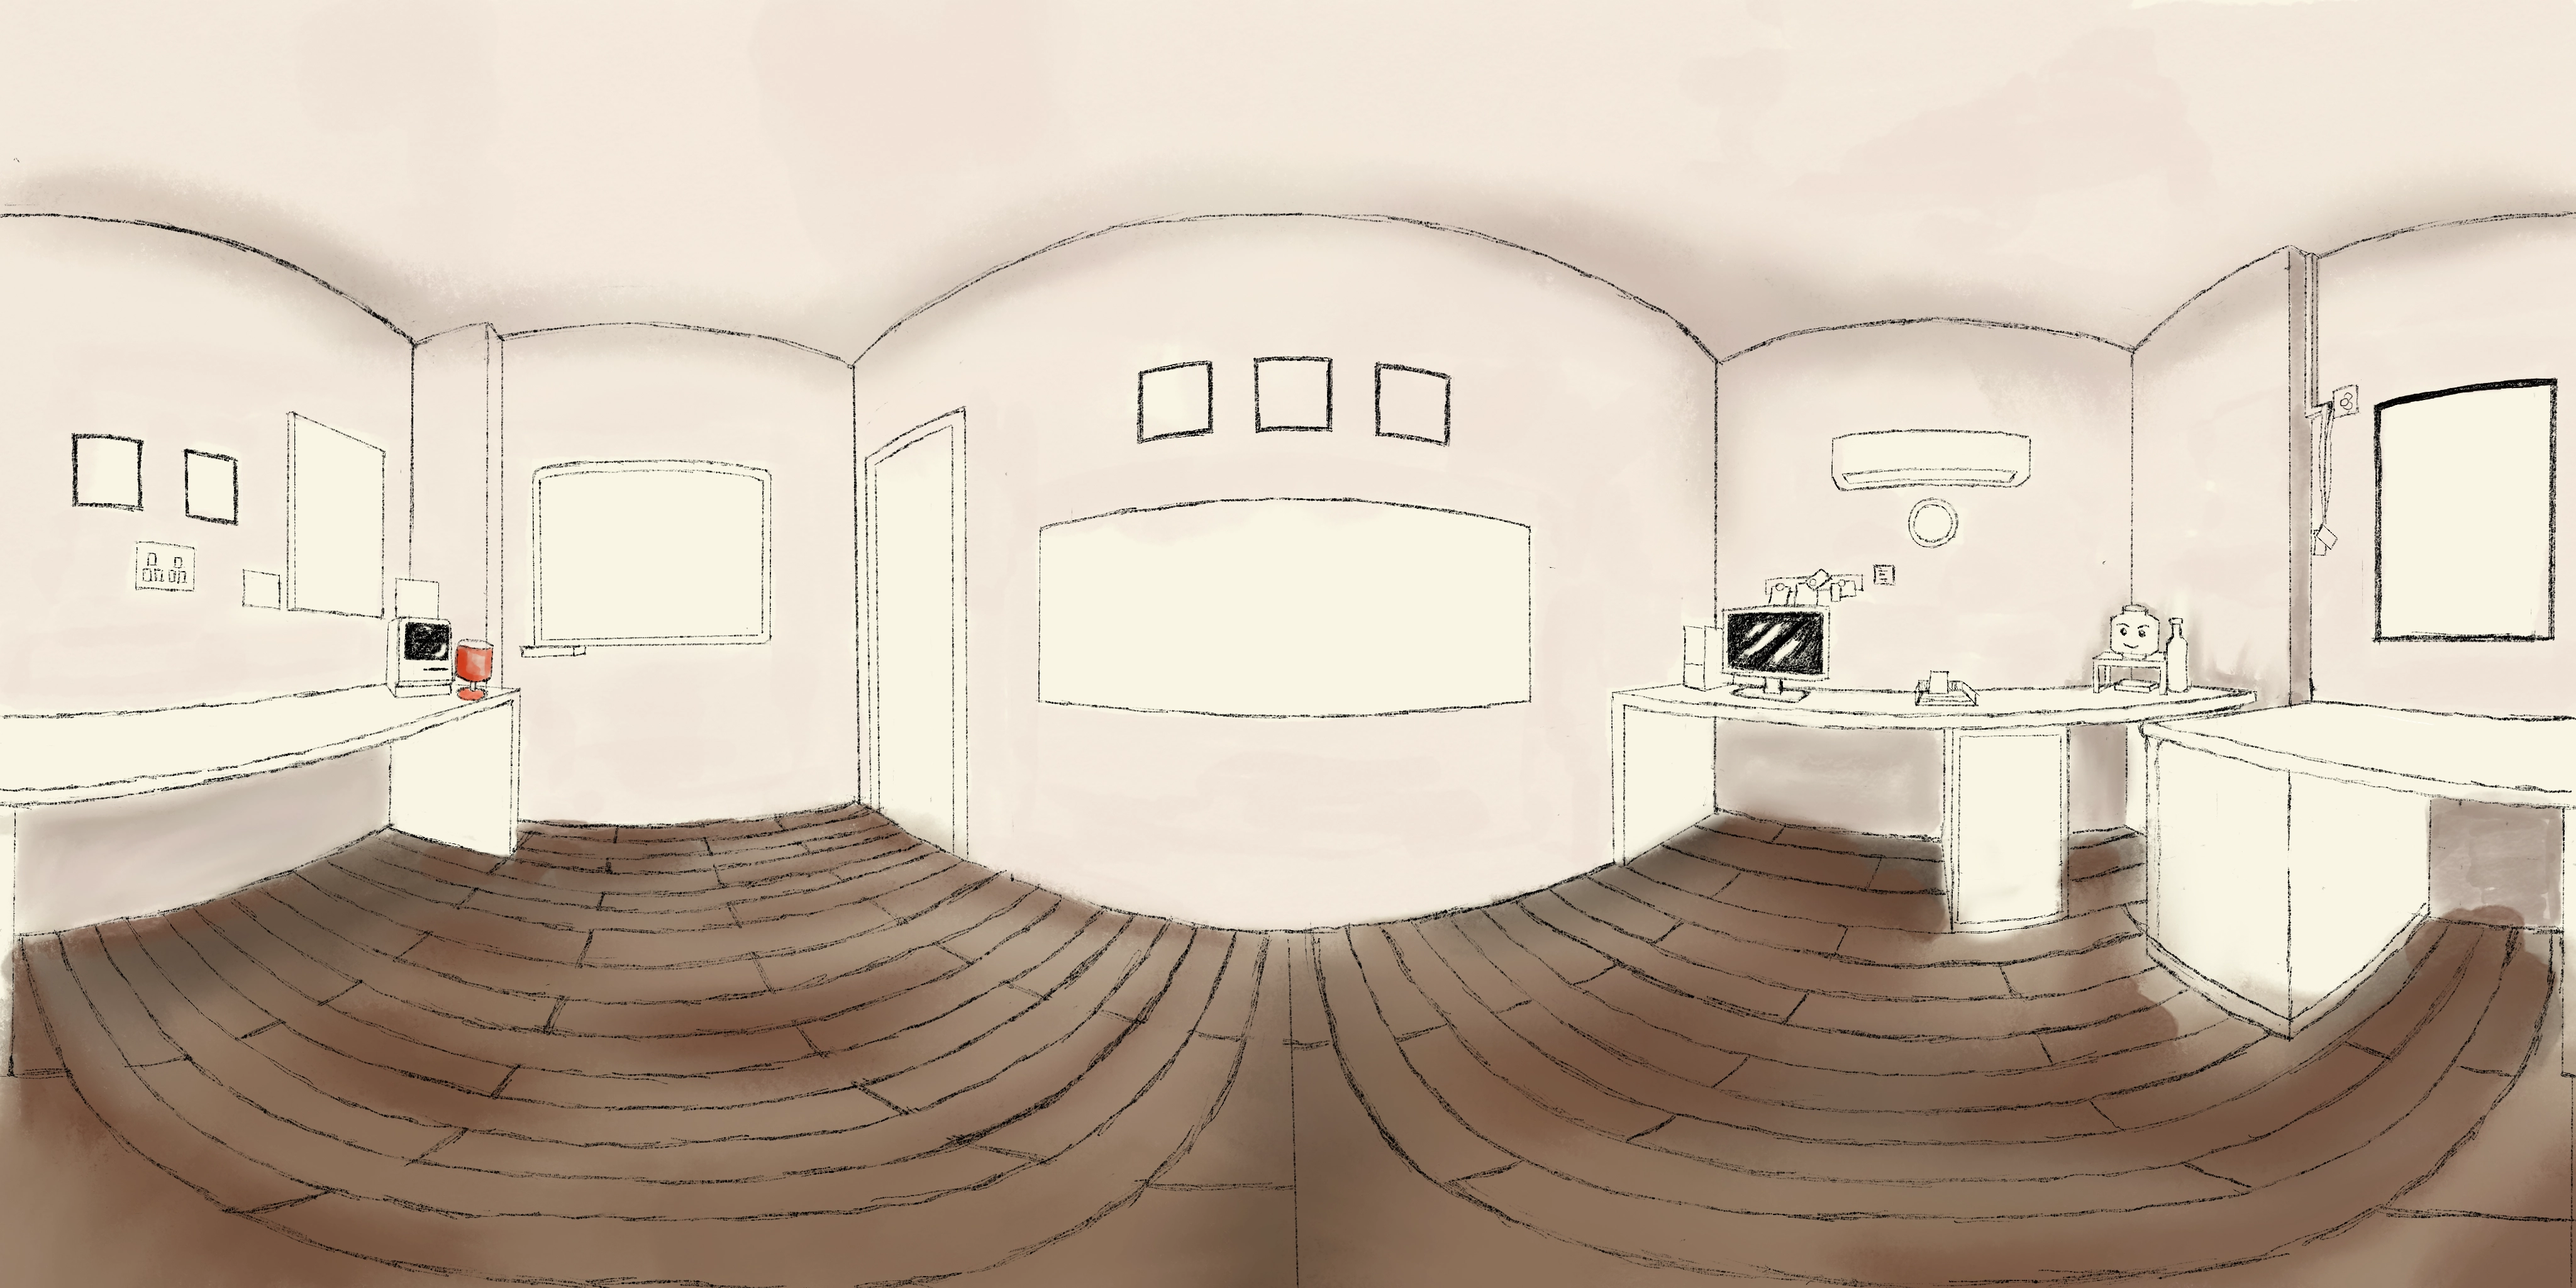
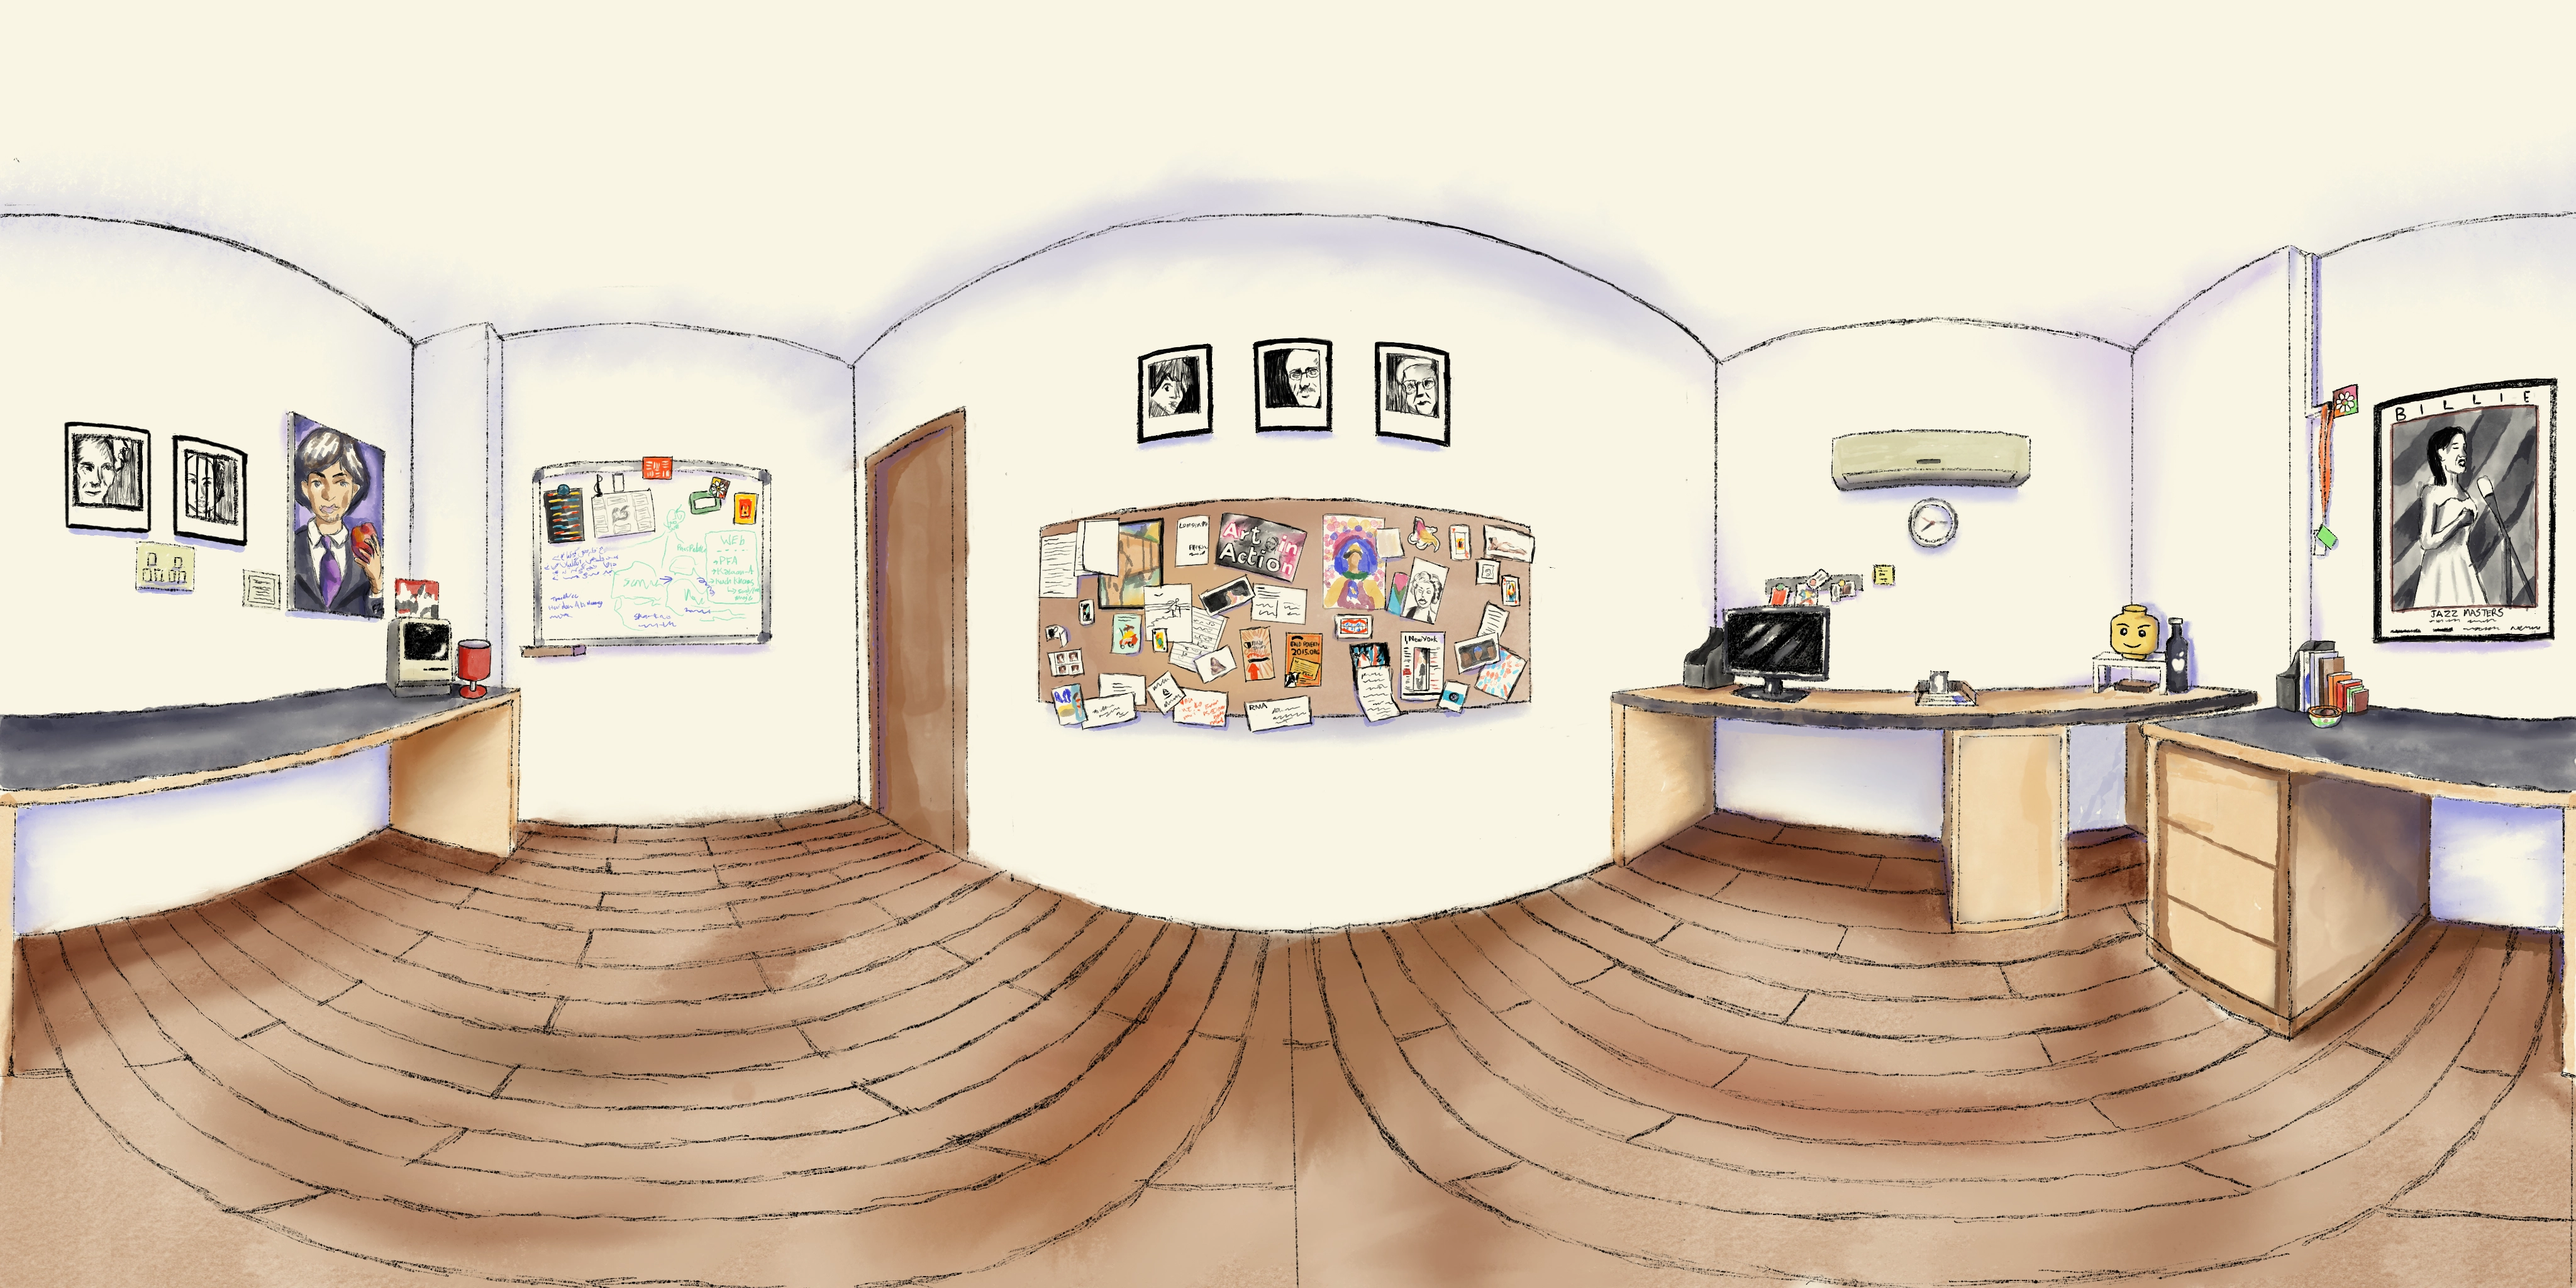
2.2.8
Updated office and home screen and fixed mobile instructions appearing incorrect

diff --git a/index.html b/index.html
@@ -188,7 +188,7 @@ async function deleteMessage(key) {
     top: 0; left: 0;
     width: 100%; height: 100%;
     background: #F9F6E4 url('Assets/Images/Home page.png') no-repeat center center;
-    background-size: 100% 100%;
+    background-size: cover;
     z-index: 9999; /* Stay above A-Frame */
     display: grid;
     grid-template-columns: 1fr 1fr;
@@ -1166,9 +1166,11 @@ function initInstructions() {
     let type = 'desktop';
     if (AFRAME.utils.device.isMobile()) {
         type = 'mobile';
-    }
-    // Basic check for VR headset
-    if (AFRAME.utils.device.checkHeadsetConnected() || navigator.userAgent.includes('Oculus') || navigator.userAgent.includes('VR')) {
+        // Override for Oculus Browser (which is mobile but VR)
+        if (navigator.userAgent.includes('Oculus')) {
+            type = 'vr';
+        }
+    } else if (AFRAME.utils.device.checkHeadsetConnected() || navigator.userAgent.includes('VR')) {
         type = 'vr';
     }
 
